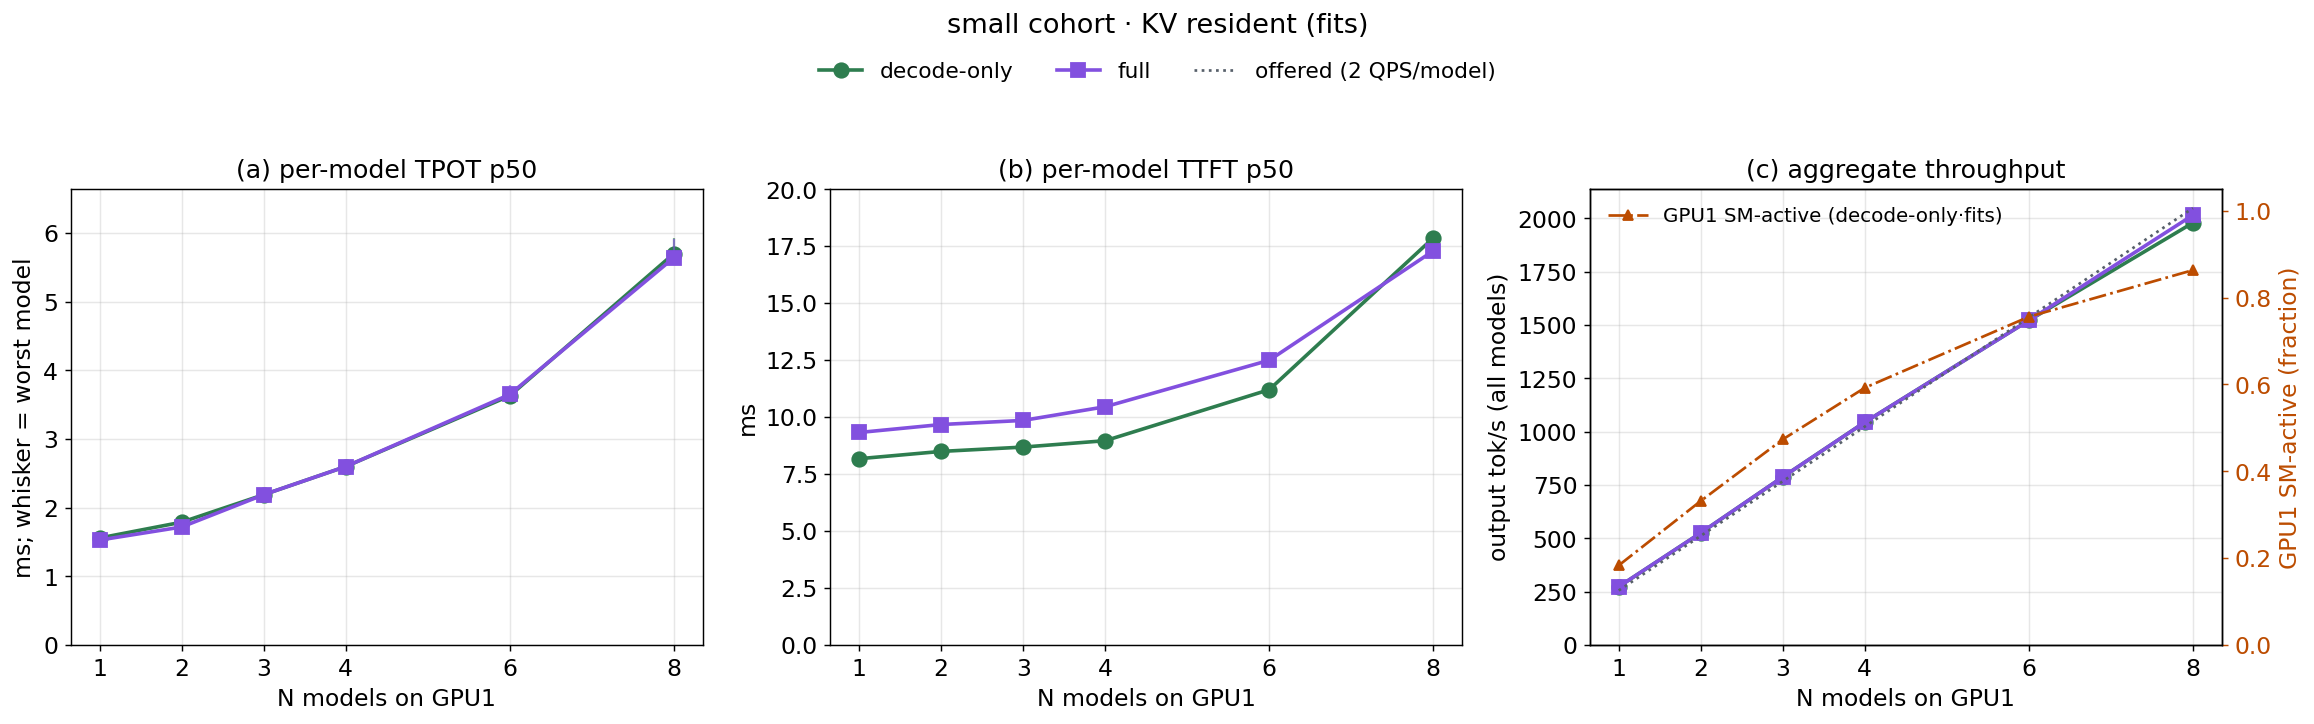
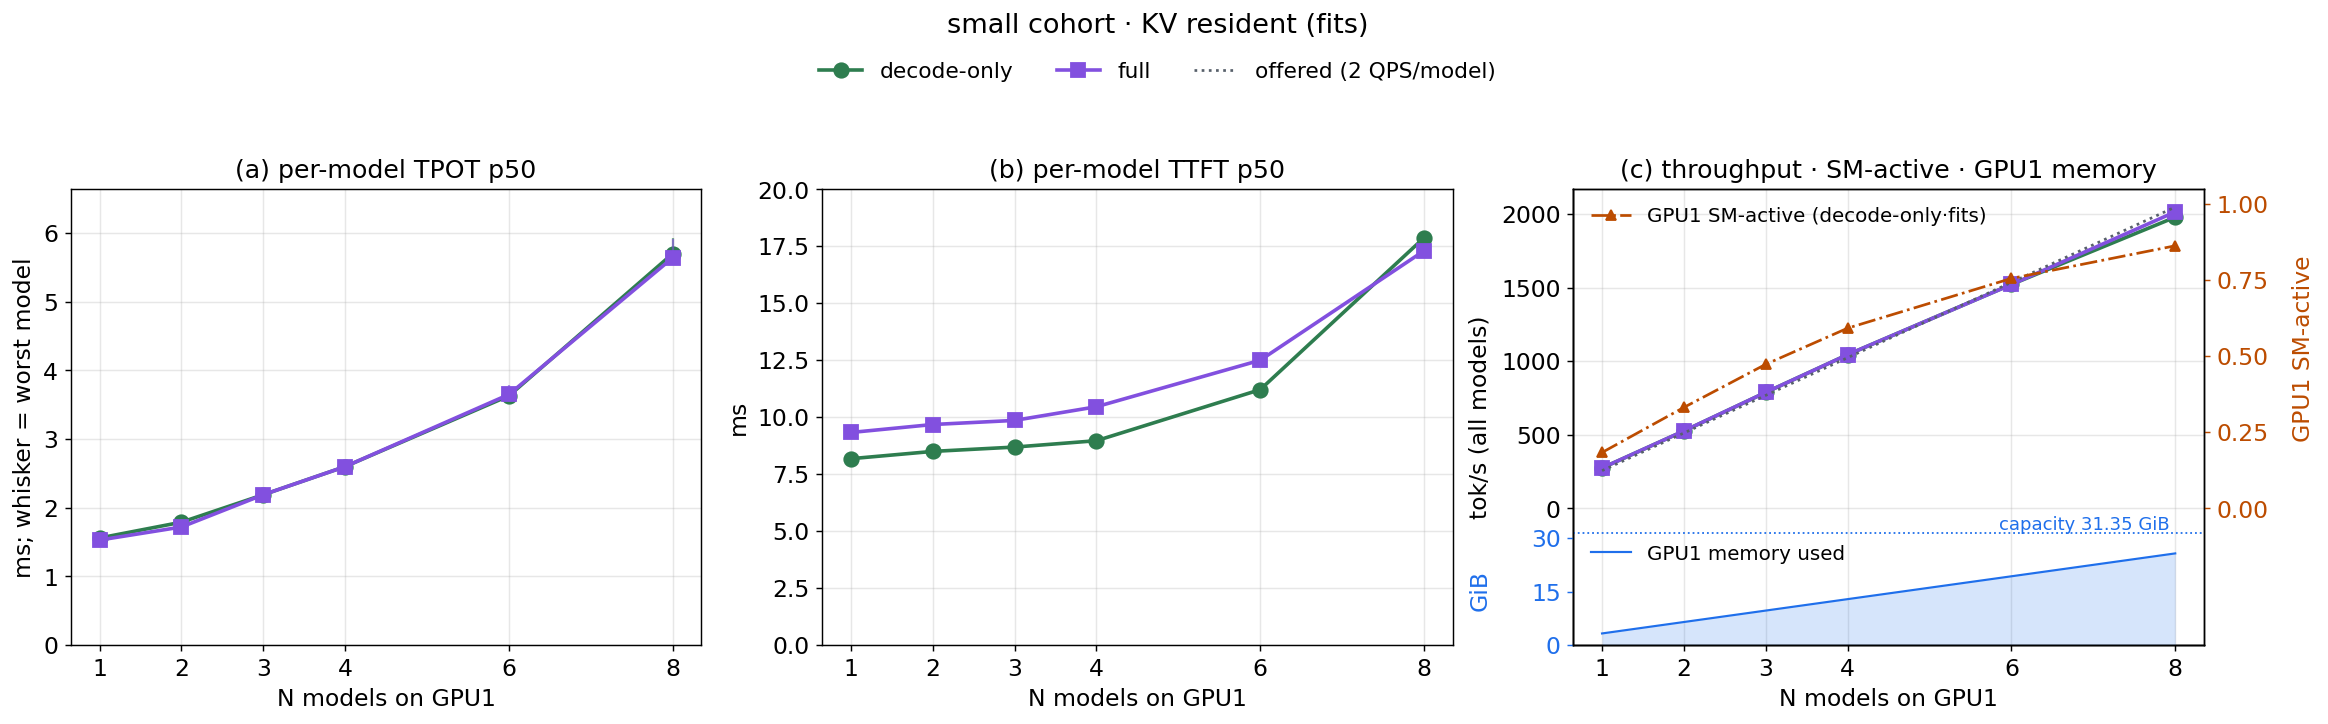
inf_multi_coloc: panel (c) adds GPU1 memory as a filled band (disjoint axis bands); medium figures

diff --git a/scripts/plots/plot_mc_scaling.py b/scripts/plots/plot_mc_scaling.py
@@ -9,7 +9,9 @@ output/summary_mc_<cohort>.csv (rebuilt from raw by multi_sweep.py).
 
   (a) per-model TPOT p50 (mean over models; whiskers = worst model)
   (b) per-model TTFT p50 (log; decode-only TTFT = queue + one-token step, no prefill)
-  (c) aggregate throughput vs the offered rate (dotted), GPU1 SM-active on the right
+  (c) aggregate throughput vs the offered rate (dotted), GPU1 SM-active on the right, and
+      GPU1 memory used as a filled band at the bottom on its own offset axis -- the three
+      quantities are given disjoint vertical bands via axis limits, so nothing overlaps
 
     .venv/bin/python scripts/plots/plot_mc_scaling.py --cohort small --group fits
     .venv/bin/python scripts/plots/plot_mc_scaling.py --cohort small --group offload
@@ -25,6 +27,7 @@ import matplotlib.pyplot as plt
 
 REPO = Path(__file__).resolve().parent.parent.parent
 OUT, FIGS = REPO / "output", REPO / "figures"
+GPU_GIB = 31.35
 GROUPS = {"fits": ("dfits", "ffits"), "offload": ("doff", "foff")}
 LABEL = {"dfits": "decode-only", "ffits": "full", "doff": "decode-only", "foff": "full"}
 COLOR = {"dfits": "#2e7d4f", "doff": "#2e7d4f", "ffits": "#8250df", "foff": "#8250df"}
@@ -67,7 +70,7 @@ def load(cohort, arm):
 
 def log_ticks(ax, lo, hi):
     from matplotlib.ticker import FixedLocator, NullLocator, ScalarFormatter
-    cands = [1, 2, 5, 10, 20, 50, 100, 200, 500, 1e3, 1e4, 1e5]
+    cands = [1, 2, 5, 10, 20, 50, 100, 200, 500, 1e3, 2e3, 5e3, 1e4, 2e4, 5e4, 1e5]
     ticks = [t for t in cands if lo / 1.5 <= t <= hi * 1.5] or cands
     ax.yaxis.set_major_locator(FixedLocator(ticks))
     ax.yaxis.set_minor_locator(NullLocator())
@@ -131,14 +134,50 @@ def main():
     sm.update({int(r["n"]): f(r["gpu1_sm_active_mean"])
                for r in canon.get((main_cell, ""), [])})
     sm = dict(sorted(sm.items()))
+    vram = {int(r["n"]): f(r["gpu1_fb_used_max_gib"]) for r in canon.get((main_cell, CAP), [])}
+    vram.update({int(r["n"]): f(r["gpu1_fb_used_max_gib"])
+                 for r in canon.get((main_cell, ""), [])})
+    vram = dict(sorted(vram.items()))
+
+    # Disjoint vertical bands in panel (c): memory fill in the bottom BAND_MEM of the
+    # height; throughput and SM-active start at BAND_TOP0 (their zero) and use the rest.
+    BAND_MEM, BAND_TOP0 = 0.25, 0.30
+    tp_max = max(max(f(r["tok_per_s_agg"]) or 0 for r in v) for v in data.values())
+    tp_max = max(tp_max, args.offered * max(allns)) * 1.06
+    ax_tp.set_ylim(-BAND_TOP0 / (1 - BAND_TOP0) * tp_max, tp_max)
+    ax_tp.set_yticks([t for t in ax_tp.get_yticks() if 0 <= t <= tp_max])
     if sm:
         ax2 = ax_tp.twinx()
         ax2.plot(list(sm), list(sm.values()), color="#bc4c00", lw=1.5, ls="-.",
                  marker="^", ms=6, label=f"GPU1 SM-active (decode-only·{args.group})")
-        ax2.set_ylim(0, 1.05)
-        ax2.set_ylabel("GPU1 SM-active (fraction)", color="#bc4c00")
+        span = 1.05 / (1 - BAND_TOP0)
+        ax2.set_ylim(-BAND_TOP0 * span, 1.05)
+        ax2.set_yticks([0, 0.25, 0.5, 0.75, 1.0])
+        ax2.set_ylabel("GPU1 SM-active", color="#bc4c00")
+        ax2.yaxis.set_label_coords(1.14, 0.65)
         ax2.tick_params(axis="y", colors="#bc4c00")
         ax2.legend(loc="upper left", frameon=False, fontsize=11)
+    if vram:
+        # memory shares the LEFT spine: its ticks live only in the bottom band, where the
+        # throughput axis (zero at BAND_TOP0) has none -- no third spine, no collisions
+        ax3 = ax_tp.twinx()
+        ax3.yaxis.tick_left()
+        ax3.yaxis.set_label_position("left")
+        for side in ("right", "top"):
+            ax3.spines[side].set_visible(False)
+        ns_v, gib = list(vram), list(vram.values())
+        ax3.fill_between(ns_v, 0, gib, color="#1f6feb", alpha=0.18, lw=0)
+        ax3.plot(ns_v, gib, color="#1f6feb", lw=1.2, label="GPU1 memory used")
+        ax3.axhline(GPU_GIB, color="#1f6feb", ls=":", lw=1.0)
+        ax3.text(max(allns), GPU_GIB, f"capacity {GPU_GIB:g} GiB ", color="#1f6feb",
+                 fontsize=10, va="bottom", ha="right")
+        ax3.set_ylim(0, 32 / BAND_MEM)
+        ax3.set_yticks([0, 15, 30])
+        ax3.set_ylabel("GiB", color="#1f6feb")
+        ax3.yaxis.set_label_coords(-0.13, 0.12)
+        ax3.tick_params(axis="y", colors="#1f6feb")
+        ax3.legend(loc="upper left", frameon=False, fontsize=11,
+                   bbox_to_anchor=(0.0, BAND_MEM + 0.01))
 
     # log only when the data spans >10x (offload's collapse); linear otherwise
     for ax, key, title in ((ax_tpot, "tpot", "(a) per-model TPOT p50"),
@@ -153,14 +192,14 @@ def main():
             unit = "ms"
         extra = "; whisker = worst model" if key == "tpot" else ""
         ax.set(title=title, xlabel="N models on GPU1", ylabel=unit + extra)
-    ax_tp.set(title="(c) aggregate throughput", xlabel="N models on GPU1",
-              ylabel="output tok/s (all models)")
+    ax_tp.yaxis.set_label_coords(-0.13, 0.65)
+    ax_tp.set(title="(c) throughput · SM-active · GPU1 memory", xlabel="N models on GPU1",
+              ylabel="tok/s (all models)")
 
     for ax in axes:
         ax.set_xticks(allns)
         ax.grid(alpha=0.3)
-        if ax is ax_tp:
-            ax.set_ylim(bottom=0)
+
     h, l = ax_tp.get_legend_handles_labels()
     title = {"fits": "KV resident (fits)", "offload": "KV 3× over the grant (offload)"}
     fig.suptitle(f"{args.cohort} cohort · {title[args.group]}", y=0.995, fontsize=15)
